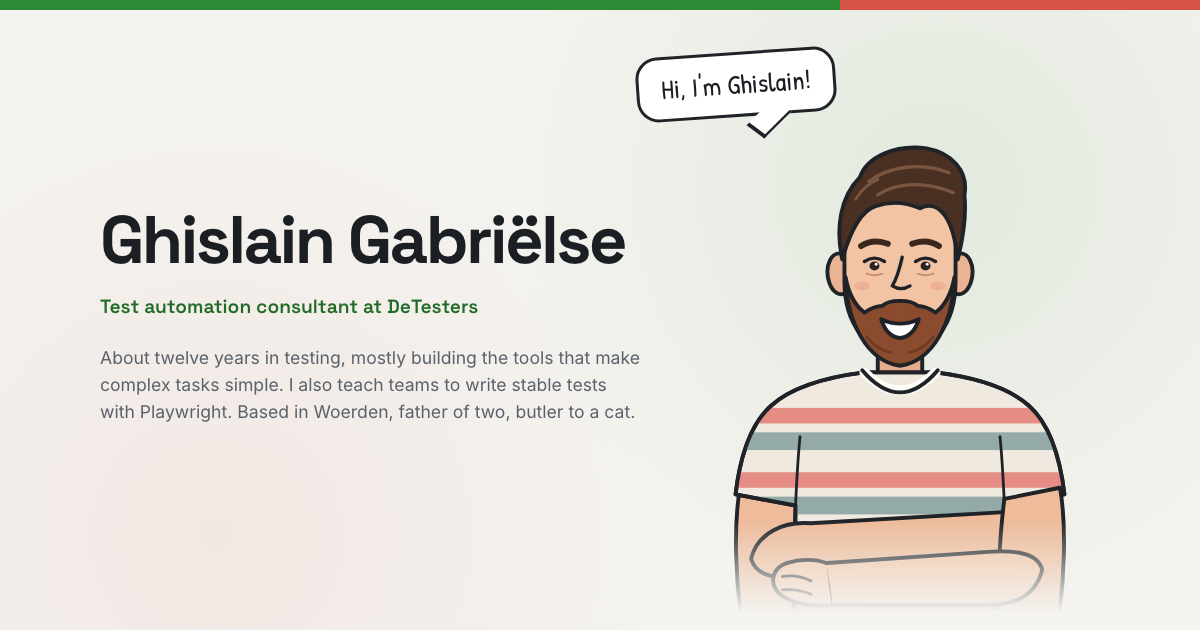
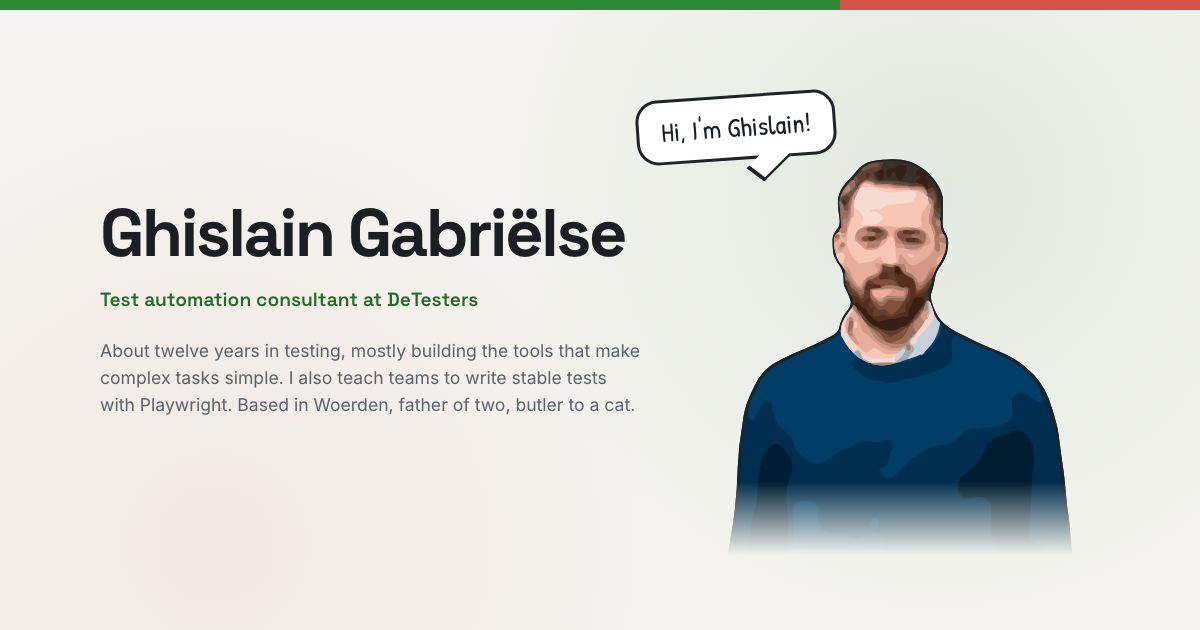
Homepage: portrait from LinkedIn photo, LinkedIn link
- ghislain.svg is now a flat-colour vector portrait traced from the
  current LinkedIn profile photo (favicon and share image regenerated)
- Footer links to https://www.linkedin.com/in/ggabrielse/

diff --git a/home/index.html b/home/index.html
@@ -220,7 +220,7 @@
 
     <figure class="figure">
       <p class="bubble" aria-hidden="true">Hi, I'm Ghislain!</p>
-      <img src="ghislain.svg" width="360" height="458" alt="Drawing of Ghislain: dark hair, a beard, a striped T-shirt and his arms crossed, smiling." />
+      <img src="ghislain.svg" width="560" height="570" alt="Illustrated portrait of Ghislain: short dark hair, a red-brown beard and a navy sweater over a white collar." />
     </figure>
   </main>
 
@@ -232,14 +232,12 @@
           GitHub
         </a>
       </li>
-      <!-- LinkedIn: uncomment and fill in your profile URL.
       <li>
-        <a href="https://www.linkedin.com/in/YOUR-PROFILE/" rel="me">
+        <a href="https://www.linkedin.com/in/ggabrielse/" rel="me">
           <svg viewBox="0 0 24 24" aria-hidden="true"><path d="M20.45 20.45h-3.56v-5.57c0-1.33-.02-3.04-1.85-3.04-1.85 0-2.14 1.45-2.14 2.94v5.67H9.35V9h3.41v1.56h.05c.48-.9 1.64-1.85 3.37-1.85 3.6 0 4.27 2.37 4.27 5.46v6.28ZM5.34 7.43a2.06 2.06 0 1 1 0-4.13 2.06 2.06 0 0 1 0 4.13ZM7.12 20.45H3.56V9h3.56v11.45ZM22.22 0H1.77C.79 0 0 .77 0 1.73v20.54C0 23.23.79 24 1.77 24h20.45c.98 0 1.78-.77 1.78-1.73V1.73C24 .77 23.2 0 22.22 0Z"/></svg>
           LinkedIn
         </a>
       </li>
-      -->
       <li>
         <a href="https://detesters.nl/">
           <svg viewBox="0 0 24 24" aria-hidden="true"><path d="M9 3h6a2 2 0 0 1 2 2v2h3a2 2 0 0 1 2 2v4H2V9a2 2 0 0 1 2-2h3V5a2 2 0 0 1 2-2Zm0 4h6V5H9Zm-7 8h8v1a1 1 0 0 0 1 1h2a1 1 0 0 0 1-1v-1h8v4a2 2 0 0 1-2 2H4a2 2 0 0 1-2-2Z"/></svg>
